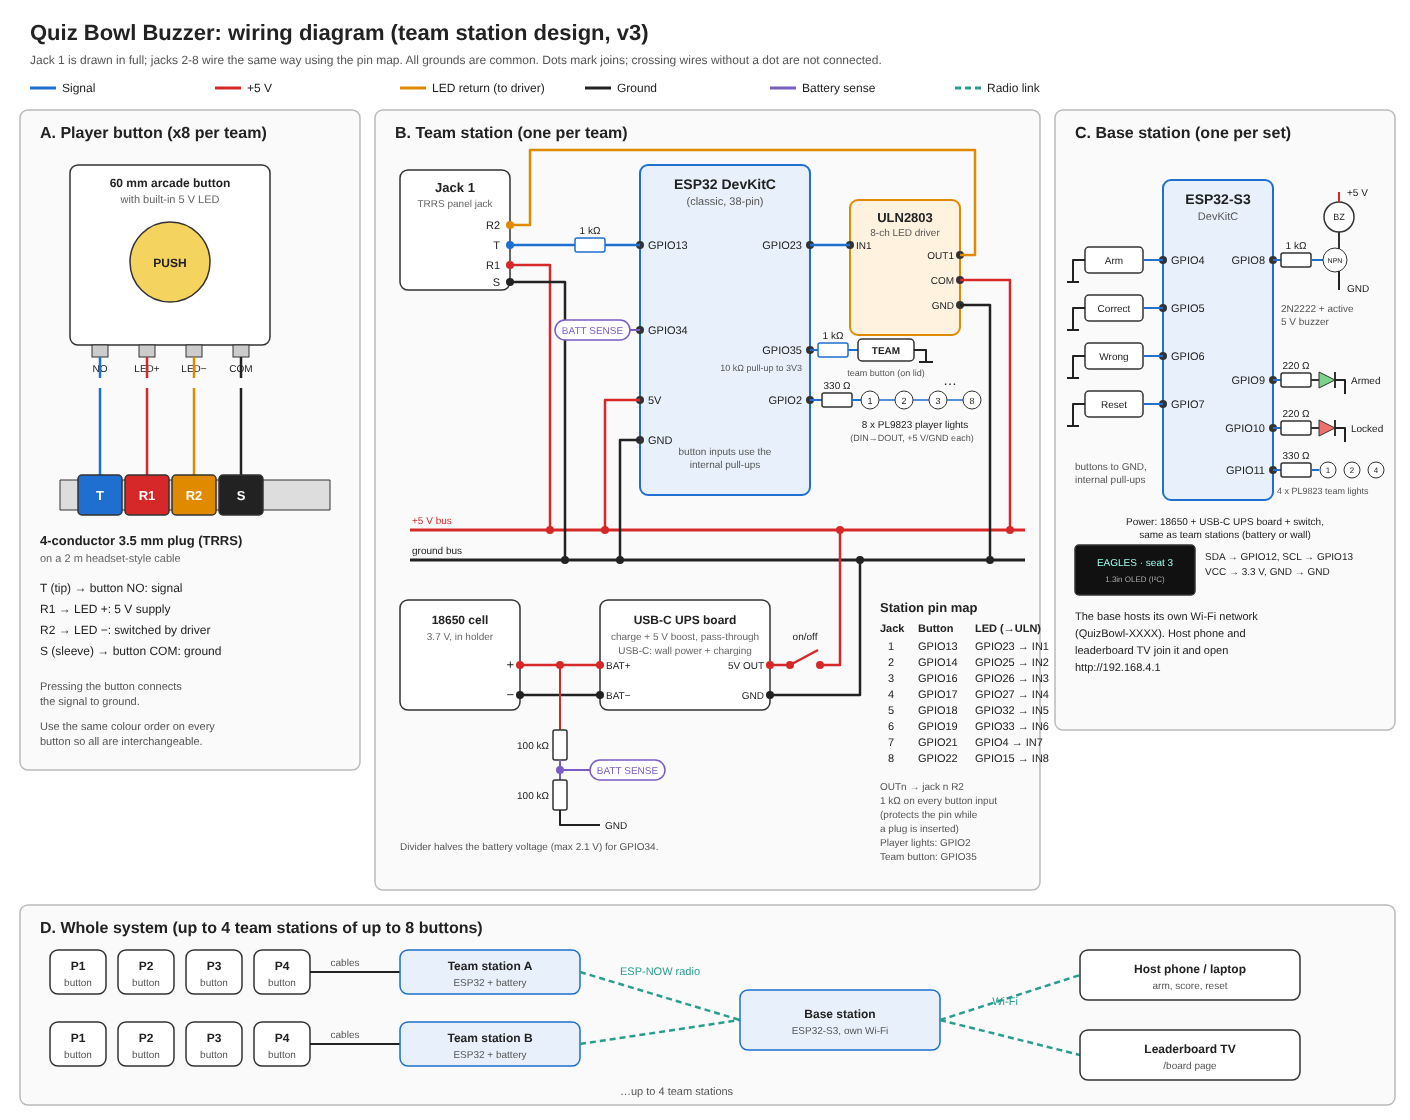
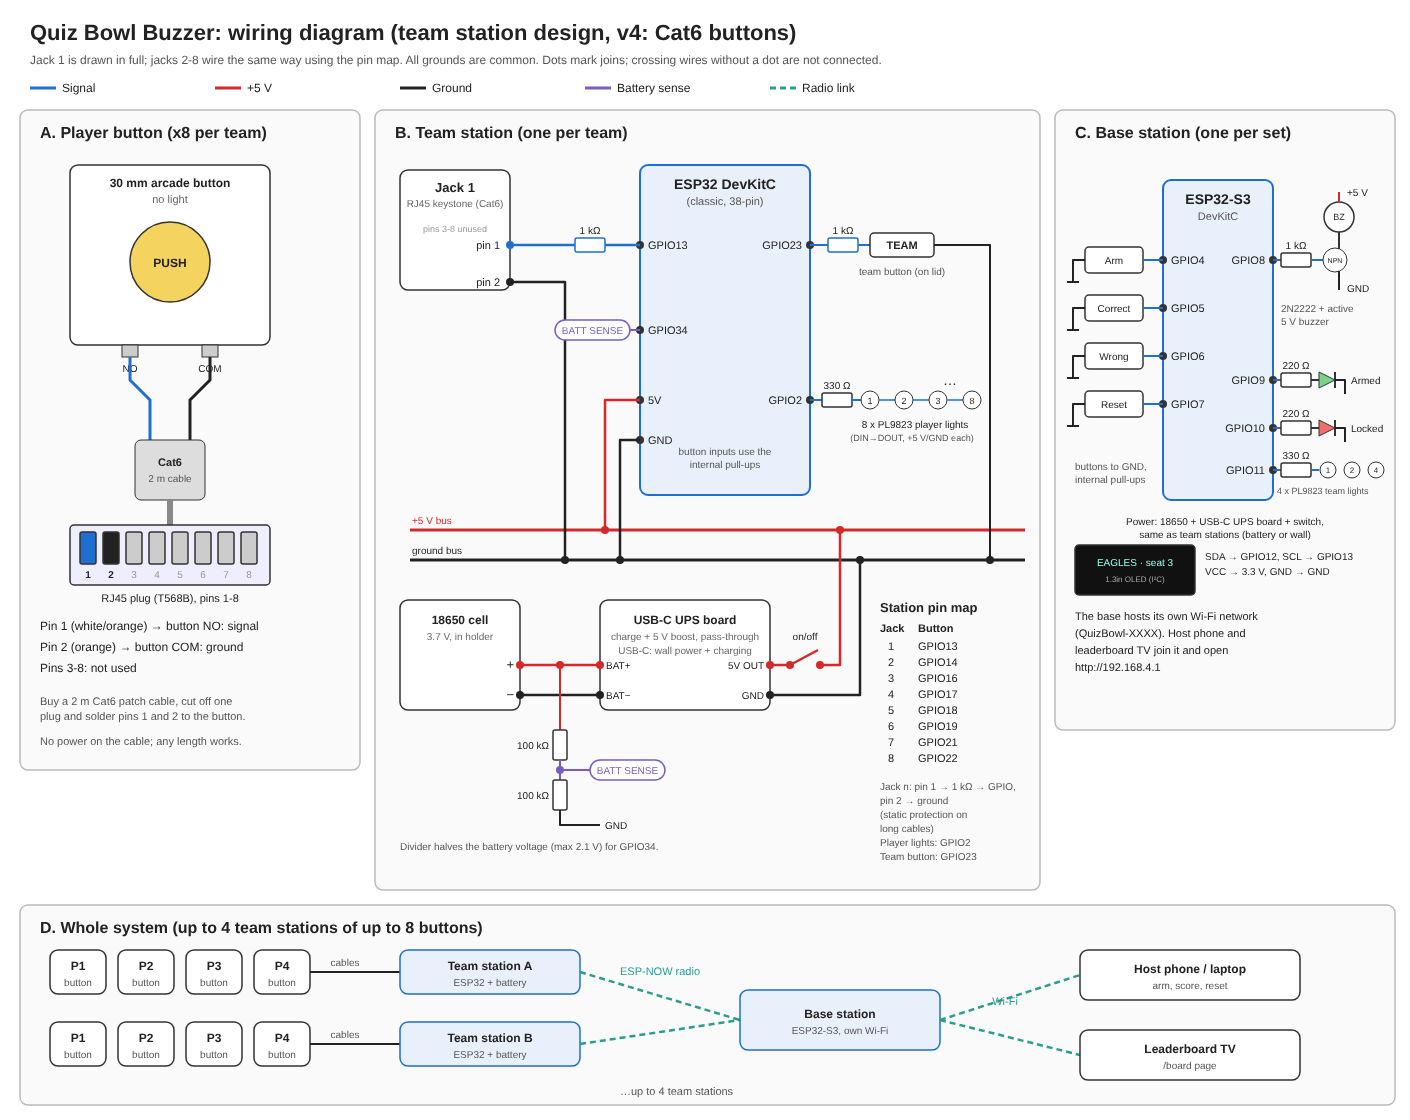
Switch player buttons to Cat6 (RJ45) and drop button lights
Player buttons are 30 mm unlit arcade buttons on Cat6 patch cables (pins 1/2 only).
Station uses 8 RJ45 keystone jacks; ULN2803 removed; team button moves to GPIO23.
Player lights on the station show who buzzed. Starter ~$85, full set ~$275.

Claude-Session: https://claude.ai/code/session_01Fgxt88sBYxrMotSFxhxikB

diff --git a/design/buzzer-design-v0.md b/design/buzzer-design-v0.md
@@ -1,10 +1,11 @@
-# Quiz Bowl Buzzer: Design (v1)
+# Quiz Bowl Buzzer: Design (v2)
 
-Status: draft v1, 2026-10-07. Decisions so far (Alek):
+Status: draft v2, 2026-10-10. Decisions so far (Alek):
 - ESP32 wireless, on the base station's **own Wi-Fi network** (no venue Wi-Fi).
 - **Team stations with wired player buttons** (one wireless box per team), chosen over a wireless buzzer per player.
 - **Standard scoring**: 10 correct, 15 power, −5 neg.
 - **Max size: 4 teams of up to 8 players** (32 buttons). Build target is 4 team stations.
+- **Player buttons connect with Cat6 (RJ45) cables** and don't light up; the player lights on the team station show who buzzed (2026-10-10).
 
 ## 1. Goals
 
@@ -18,12 +19,12 @@ Status: draft v1, 2026-10-07. Decisions so far (Alek):
 
 ```
  [Player button] x up to 8 --cable--> [Team station ESP32] x up to 4 --ESP-NOW--> [Base station ESP32-S3] --own Wi-Fi--> [Host view + leaderboard (browser)]
-   arcade button + LED                 detects presses, lights LEDs,                 arbitration, lockout,                  arm / score / reset,
-   3.5 mm TRRS plug                    timestamps from Arm                           scores, web server                     projector view
+   30 mm arcade button                 detects presses, player lights,               arbitration, lockout,                  arm / score / reset,
+   Cat6 cable, RJ45 plug               timestamps from Arm                           scores, web server                     projector view
 ```
 
-- **Player button**: a 60 mm arcade button with built-in LED in a small housing, on a 2 m 4-conductor 3.5 mm cable (TRRS, headset-style): tip = button signal, ring 1 = LED +5 V, ring 2 = LED return to driver, sleeve = ground. The LED needs its own supply wire, so 3-conductor TRS isn't enough.
-- **Team station**: one classic ESP32 DevKitC per team, in a box on the team's table with 8 TRRS jacks, a ULN2803 driver for the button LEDs, a row of 8 **player lights** (one above each jack, see §3a), a built-in **team button** on the lid (§3b), and **battery + wall power** (§3c). It is the only radio for that team.
+- **Player button**: a 30 mm arcade button (no light) in a small housing, on a 2 m Cat6 patch cable with the far end cut off and soldered to the button. Only one twisted pair is used: RJ45 pin 1 (white/orange) = button signal, pin 2 (orange) = ground. Pins 3-8 are unused. No power runs to the button, so cables can be any length and swapped freely.
+- **Team station**: one classic ESP32 DevKitC per team, in a box on the team's table with 8 RJ45 (Cat6 keystone) jacks, a row of 8 **player lights** (one above each jack, see §3a), a built-in **team button** on the lid (§3b), and **battery + wall power** (§3c). It is the only radio for that team.
 - **Base station**: one ESP32-S3 with physical host buttons, piezo, status LEDs, a row of 4 **team lights**, a small **OLED display** (see §3a) and **battery + wall power** (§3c). Single source of truth for who buzzed first and the score.
 - **Host UI**: the base serves a web page over its own network. Phone or laptop joins and opens `http://192.168.4.1`.
 
@@ -43,7 +44,7 @@ Connectionless, ~1 ms latency, no router. With at most 8 team stations, the 20-p
 1. Host presses **Arm**. Base sends `ARM{round_id}` to all stations; each records its local `micros()` at arm.
 2. On the first press on a station, it sends `BUZZ{team, seat, elapsed_us}` where `elapsed_us` is time since Arm by its own clock. It retries until the base ACKs. Later presses on the same team are sent too, for stats only.
 3. Base waits a **5 ms arbitration window** after the first BUZZ, then picks the lowest `elapsed_us`. Gaps under ~1 ms count as a tie, broken by arrival order.
-4. Base sends `LOCK{team, seat}`. The winning player's button LED lights, the station LEDs show which team has it, and the base sounds the tone.
+4. Base sends `LOCK{team, seat}`. The winning player's light on the station turns on, the base's team light shows which team has it, and the base sounds the tone.
 5. **Rules** (standard quiz bowl):
    - *Wrong answer*: host presses **Neg** or **Wrong**; that team is locked out for the rest of the question.
    - *Continue*: base re-arms for teams not locked out.
@@ -64,7 +65,7 @@ So the moderator can rule on a team answer without the scoreboard, and still see
 - **1.3" OLED display** (128x64) above them showing the team name and seat, e.g. `EAGLES  · seat 3`, plus question number and Armed / Locked state.
 
 **Team station (which player):**
-- **8 player lights**, one above each jack, labelled 1-8. The winning player's light turns on in the team colour, so the team and moderator can see who buzzed even if the button itself is out of view. The winning player's button light also turns on, as before.
+- **8 player lights**, one above each jack, labelled 1-8. The winning player's light turns on in the team colour, so the team and moderator can see who buzzed. The player buttons themselves don't light up; this is cheaper and keeps power off the cables.
 - Between questions the lights show station status: green = connected, blinking amber = searching for base, red = low battery.
 
 **Parts:** both rows use PL9823 5 mm addressable RGB LEDs (WS2812-type, through-hole). They daisy-chain on one data pin, so there's no extra driver chip or wire per LED, and each can show any colour. The ESP32's 3.3 V data signal is at the edge of what a 5 V chain accepts; if the lights flicker on the breadboard, add a 74AHCT125 level shifter (about $0.50) on the data line.
@@ -72,7 +73,7 @@ So the moderator can rule on a team answer without the scoreboard, and still see
 ## 3b. Team button
 
 Each team station has a **built-in team button** (30 mm arcade button) on its lid, for games played as a team without getting out the individual buttons.
-- Wired inside the box to GPIO35, so nothing to plug in.
+- Wired inside the box to GPIO23, so nothing to plug in.
 - Works alongside the individual buttons: whichever is pressed first counts. A team-button buzz shows as `EAGLES · team` on the base screen, host page and scoreboard, and all 8 player lights flash in the team colour.
 - Team mode on the host page (optional): ignores individual buttons, for when they're plugged in but you want team-only play.
 
@@ -89,9 +90,9 @@ Every unit (base and each team station) runs from a **built-in 18650 battery and
 
 - Each station stores its `team_id` in flash, set from the host view during pairing. Seat = jack number (1-8).
 - Roster check before a game: each player presses once, and the host view marks that seat as present.
-- Adding a player = plug in another button. Adding a team = build another station and pair it.
+- Adding a player = plug in another button with any Cat6 cable. Adding a team = build another station and pair it.
 - Team identity: coloured button caps and a coloured station lid per team.
-- **Limit**: 8 players per station (a classic ESP32 has enough free pins for 8 buttons + 8 LEDs); more is possible with an I/O expander. Base supports 4 teams (Alek's max); more would need more team lights.
+- **Limit**: 8 players per station (a classic ESP32 has plenty of free pins); more is possible with an I/O expander. Base supports 4 teams (Alek's max); more would need more team lights.
 
 ## 5. Host console
 
@@ -119,23 +120,22 @@ The ESP32 has no video output, so the page is shown by any device with a browser
 
 ## 7. Parts list (2 teams x 4 players, prototype)
 
-> For a cheaper phased build (starter ~$85, no lit buttons or ULN2803 at first), see [starter-kit-plan.md](starter-kit-plan.md).
+> For the phased build (starter ~$85 with team buttons only), see [starter-kit-plan.md](starter-kit-plan.md).
 
 | Item | Qty | Approx. each | Notes |
 |---|---|---|---|
 | **Per team station** | | | |
 | ESP32 DevKitC (classic, 38-pin) | 2 | $5 | plenty of GPIO |
-| ULN2803 LED driver | 2 | $1 | drives 8 button LEDs |
-| 3.5 mm TRRS panel jacks | 16 | $0.40 | 8 per station |
+| Cat6 RJ45 keystone jack (punch-down) | 16 | $0.80 | 8 per station |
 | 18650 cell + holder | 3 | $3.50 | one per station + base |
 | USB-C UPS board (charge + 5 V boost, pass-through) | 3 | $3 | battery or wall power, see §3c |
 | Slide power switch | 3 | $0.20 | |
 | 30 mm arcade button (team button) | 2 | $1 | on each station lid |
 | Enclosure | 2 | $5 | project box or 3D printed |
 | **Per player button** | | | |
-| 60 mm arcade button with LED (5 V version) | 8 | $3 | team-coloured caps |
-| 2 m 3.5 mm TRRS cable | 8 | $2 | headset extension cable, cut one end into the housing |
-| Small button housing | 8 | $1 | 3D printed or cut box |
+| 30 mm arcade button, no light | 8 | $1 | team-coloured caps |
+| 2 m Cat6 patch cable | 8 | $1.50 | cut off one plug, solder pins 1 and 2 to the button |
+| Small button housing | 8 | $0.50 | 3D printed |
 | **Base station** | | | |
 | ESP32-S3 DevKitC | 1 | $10 | |
 | Piezo, 4 tactile buttons, LEDs, wire, resistors | 1 set | $5 | |
@@ -143,9 +143,9 @@ The ESP32 has no video output, so the page is shown by any device with a browser
 | 1.3" OLED 128x64 I²C module (SH1106) | 1 | $5 | base display |
 | *Optional:* Raspberry Pi Zero 2 W + case, mini-HDMI cable, 5 V supply, microSD | 1 | $35 | HDMI scoreboard box |
 
-Rough total: **~$115** for 2 stations, 8 buttons and the base. Each extra player ≈ $6; each extra team station ≈ $20 plus its buttons.
+Rough total: **~$115** for 2 stations, 8 buttons, base with screen, and batteries. Each extra player ≈ $3; each extra team station ≈ $27.
 
-**Full set at max size (4 teams x 8 players):** 4 stations (~$22 each with lights) + 32 buttons (~$6 each) + base (~$21) ≈ **$300**, plus ~$35 for the optional HDMI scoreboard Pi.
+**Full set at max size (4 teams x 8 players):** see [starter-kit-plan.md](starter-kit-plan.md), ≈ **$275** including the base screen and HDMI scoreboard box.
 
 ## 7a. Wiring
 
@@ -153,24 +153,24 @@ Full diagram: [wiring-diagram.svg](wiring-diagram.svg) (PNG copy: wiring-diagram
 
 **Team station (ESP32 DevKitC)**
 
-| Jack | Button input (internal pull-up, 1 kΩ series) | LED output → ULN2803 |
-|---|---|---|
-| 1 | GPIO13 | GPIO23 → IN1 |
-| 2 | GPIO14 | GPIO25 → IN2 |
-| 3 | GPIO16 | GPIO26 → IN3 |
-| 4 | GPIO17 | GPIO27 → IN4 |
-| 5 | GPIO18 | GPIO32 → IN5 |
-| 6 | GPIO19 | GPIO33 → IN6 |
-| 7 | GPIO21 | GPIO4 → IN7 |
-| 8 | GPIO22 | GPIO15 → IN8 |
+| Jack | Button input (internal pull-up, 1 kΩ series) |
+|---|---|
+| 1 | GPIO13 |
+| 2 | GPIO14 |
+| 3 | GPIO16 |
+| 4 | GPIO17 |
+| 5 | GPIO18 |
+| 6 | GPIO19 |
+| 7 | GPIO21 |
+| 8 | GPIO22 |
+| Team button (on lid) | GPIO23 |
 
-- Jack n: T → button input via 1 kΩ; R1 → +5 V; R2 → ULN2803 OUTn; S → ground.
-- ULN2803 COM (pin 10) → +5 V, GND (pin 9) → ground.
+- Jack n (RJ45, T568B colours): pin 1 (white/orange) → 1 kΩ → button input; pin 2 (orange) → ground. Pins 3-8 not connected.
 - Player lights: GPIO2 → 330 Ω → DIN of LED 1; DOUT → DIN chained through LED 8. Each LED: +5 V, ground, 100 nF across its power pins; one 470 µF across the 5 V bus at the chain.
 - Battery sense: battery + → 100 kΩ → GPIO34 → 100 kΩ → ground.
-- Power: 18650 → USB-C UPS board → on/off switch → 5 V bus (ESP32 5V pin, jack R1s, ULN COM). 1000 µF across the 5 V bus.
-- Team button: GPIO35 ← 1 kΩ ← button → ground; 10 kΩ pull-up from GPIO35 to 3V3 (GPIO35 has no internal pull-up).
-- The 1 kΩ resistors protect the inputs if a plug's +5 V contact brushes the signal line while it is being inserted. Still best to plug buttons in before powering on.
+- Power: 18650 → USB-C UPS board → on/off switch → 5 V bus (ESP32 5V pin, player lights). 1000 µF across the 5 V bus.
+- The 1 kΩ resistors protect the inputs from static on long cables.
+- Label the jacks "Buzzer, not network". Plugging one into a network switch by mistake won't harm either side, but it won't work.
 
 **Base station (ESP32-S3 DevKitC)**
 
@@ -192,7 +192,7 @@ Full diagram: [wiring-diagram.svg](wiring-diagram.svg) (PNG copy: wiring-diagram
 4. **Fairness test**: two stations triggered from one shared button (test jig) to check tie handling and the arbitration window.
 5. **Web host view** from the base (plain HTML + WebSocket, no framework), scoring and lockout rules, undo.
 6. **Leaderboard page.**
-7. **Hardware build-out**: TRRS cabling, button housings, station enclosures, batteries; then the second team.
+7. **Hardware build-out**: Cat6 cabling, button housings, station enclosures, batteries; then the second team.
 
 ## 9. Software layout (proposed repo)
 
@@ -208,9 +208,9 @@ docs/
 
 PlatformIO + Arduino framework to keep it approachable.
 
-## 10. Open questions
+## 10. Repository
 
-- Do you want a GitHub repo for the firmware? GitHub isn't connected to this project yet.
+Everything here is mirrored to GitHub: alekf-hls/quiz-bowl-buzzer (main).
 
 ## 12. Enclosure dimensions for indicators (check against the parts you buy)
 
@@ -222,5 +222,7 @@ PlatformIO + Arduino framework to keep it approachable.
 | Slide power switch | base and each station | ~12 x 6 mm body | ~8.5 x 4 mm slot |
 | PL9823 5 mm LED | base (x4), each station (x8) | 5 mm dome, ~8.6 mm long body, 4 leads | 5.1 mm hole; base row at 15 mm pitch; station one directly above each jack |
 | 1.3" OLED module (SH1106) | base | PCB ~35.5 x 33.5 mm, ~4 mm thick plus header; visible area ~30 x 15 mm | window ~31 x 16 mm, 4 x M2 holes ~30.5 mm apart |
-| 3.5 mm TRRS panel jack | each station (x8) | 6 mm thread | 6.2 mm hole, 12 mm minimum jack pitch |
+| Cat6 RJ45 keystone jack | each station (x8) | ~14.5 x 16 x 30 mm body, snap-in | standard keystone cutout ~14.9 x 19.2 mm in a 1.5-2 mm thick wall; ~20 mm minimum pitch, so 8 fit best as 2 rows of 4 |
+| Cat6 cable at the button | each player button | ~6 mm cable | 6.5 mm hole with strain relief (knot or zip-tie inside) |
+| 30 mm arcade button | each player button | 30 mm snap-in | 30 mm hole |
 | Label strip | base and station | numbers 1-8 under each light | embossed or printed |

diff --git a/design/starter-kit-plan.md b/design/starter-kit-plan.md
@@ -1,16 +1,16 @@
 # Quiz Bowl Buzzer: Starter Kit and Add-ons
 
-Date: 2026-10-07. Prices are rough single-unit online prices (AliExpress/Amazon); they'll vary.
+Date: 2026-10-10 (Cat6 cables, unlit player buttons). Prices are rough single-unit online prices (AliExpress/Amazon); they'll vary.
 Goal: a cheap set you can play with now, and add to without rebuilding anything.
 
 ## Rules that keep add-ons cheap
 - **Build every station for the max from day one.** Each team station gets all 8 player jacks and 8 player lights fitted even before any player buttons exist (under $0.70 per seat). Adding players later is then just plugging in buttons.
-- **Use 4-wire TRRS cables** on every player button, even ones without lights, so lit buttons can plug in later.
-- **Firmware detects what's fitted**: no player buttons, no OLED, no ULN2803, any number of stations (1-4) all just work.
+- **Player buttons use ordinary Cat6 patch cables** (one plug cut off and soldered to the button). Cheap, sturdy, any length, and easy to replace.
+- **Firmware detects what's fitted**: no player buttons, no OLED, any number of stations (1-4) all just work.
 - **Battery + wall power is built in from the start.** To save ~$20 you can skip the batteries at first and run every unit from a USB-C wall charger; the board and USB-C socket are the same either way.
 - **Any phone or laptop is the scoreboard** until you want a dedicated HDMI box.
 
-## Stage 1: Starter kit, base + 2 team stations, team buttons only (~$80)
+## Stage 1: Starter kit, base + 2 team stations, team buttons only (~$85)
 Play a full team game right away: each team buzzes with the **team button** built into its station. Includes lockout, scoring, host page, scoreboard in a browser, which-team lights on the base, and USB-C rechargeable batteries that also run from wall power. No individual player buttons yet; the jacks are ready for them.
 
 | Item | Qty | Each | Total |
@@ -20,35 +20,33 @@ Play a full team game right away: each team buzzes with the **team button** buil
 | PL9823 5 mm RGB LED (4 team lights on base) | 4 | $0.25 | $1 |
 | ESP32 DevKitC (team stations) | 2 | $5 | $10 |
 | 30 mm team button on each station lid | 2 | $1 | $2 |
-| TRRS panel jacks (all 8 per station, ready for player buttons) | 16 | $0.40 | $6.40 |
+| Cat6 RJ45 keystone jacks (all 8 per station, ready for player buttons) | 16 | $0.80 | $12.80 |
 | PL9823 5 mm RGB LED (8 player lights per station) | 16 | $0.25 | $4 |
 | Perfboard, headers, wire, 1 kΩ/330 Ω/10 kΩ resistors, capacitors | 1 lot | $10 | $10 |
 | 3D-printed enclosures: base + 2 stations (filament) | ~300 g | | $6 |
 | 18650 cell + holder | 3 | $3.50 | $10.50 |
 | USB-C UPS board (charge + boost, pass-through) | 3 | $3 | $9 |
 | Slide switch, 1000 µF capacitor | 3 | $0.50 | $1.50 |
-| **Stage 1 total** | | | **~$80** (~$60 without batteries, running from wall chargers) |
+| **Stage 1 total** | | | **~$85** (~$65 without batteries, running from wall chargers) |
 
-Even cheaper: leave the jacks and player lights out of the stations for now (−$10, so ~$70). The holes are already in the printed boxes, but you'd be soldering them in later instead of just plugging buttons in.
+Even cheaper: leave the jacks and player lights out of the stations for now (−$17, so ~$70). The holes are already in the printed boxes, but you'd be soldering them in later instead of just plugging buttons in.
 
 ## Add-ons (any order)
 
 | Add-on | What it adds | Cost |
 |---|---|---|
-| **Player buttons** | 30 mm arcade button + 2 m TRRS cable + printed housing, plugs into any station jack | ~$3.50 each: ~$14 for 4 on a team, ~$28 for a full team of 8 |
-| **Third team** | 1 station (ESP32, team button, 8 jacks, 8 lights, battery + USB-C board) + enclosure | ~$24 |
-| **Fourth team** | same | ~$24 |
+| **Player buttons** | 30 mm arcade button + 2 m Cat6 patch cable + printed housing, plugs into any station jack | ~$3 each: ~$12 for 4 on a team, ~$24 for a full team of 8 |
+| **Third team** | 1 station (ESP32, team button, 8 Cat6 jacks, 8 lights, battery + USB-C board) + enclosure | ~$27 |
+| **Fourth team** | same | ~$27 |
 | **Base screen** | 1.3" OLED showing team name + seat | ~$5 |
 | **HDMI scoreboard box** | Raspberry Pi Zero 2 W + case, mini-HDMI cable, power, microSD | ~$35 |
-| **Lit buttons (optional)** | ULN2803 per station + 60 mm LED arcade buttons instead of 30 mm | ~$1 per station + ~$3 more per button |
 
 ## Totals
-- Starter: **~$80**
-- Starter + 4 player buttons on each team (2 teams x 4): **~$108**
-- Max size (4 teams x 8 player buttons), base screen, batteries, HDMI box, without lit buttons: **~$80 + $24x2 + 32 x $3.50 + $5 + $35 ≈ $280**
-- Lit buttons on top: **~+$100**.
+- Starter: **~$85**
+- Starter + 4 player buttons on each team (2 teams x 4): **~$110**
+- Max size (4 teams x 8 player buttons), base screen, batteries, HDMI box: **~$85 + $27x2 + 32 x $3 + $5 + $35 ≈ $275**
 
-**Recommendation:** skip lit buttons. The player light above each jack already shows who buzzed. If you do want them, buy 60 mm LED buttons from the start rather than replacing 30 mm ones.
+Player buttons don't light up; the light above each jack on the team station shows who buzzed. That's the cheaper option and keeps the cables to two wires.
 
 ## Suggested order
 1. Starter kit; play team games with the team buttons.
